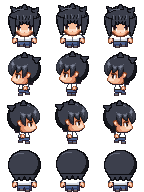
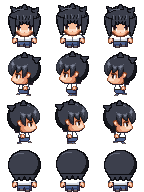
ちびキャラ：横向きの足元を手本に合わせる（脚と靴で2段、つま先の1ドットの出っ張り、裾を45行まで、歩幅）
Claude-Session: https://claude.ai/code/session_017gxvkc2TW4xYgG5MuSL3N1

diff --git a/files.js b/files.js
@@ -2,7 +2,7 @@
 // マップなどを足したら scripts に1行足す（順番どおりに読み込む。main.js は最後）。
 // 版の番号 v は tools/stamp.py が書き換える。
 window.FILES = {
-  v: '20261127051514',
+  v: '20261127051956',
   scripts: [
     'engine/core.js',
     'engine/world.js',

diff --git a/tools/sprites/make_chibi.py b/tools/sprites/make_chibi.py
@@ -122,8 +122,8 @@ def body(a, c, side, step, back):
         sw = {0: -1, 1: 0, 2: 1}[step]
         if girl:
             span_part(a, SKIRT_SIDE_GIRL, c['low1'], c['low2'], c['line'], bottom_line=True)
-            for x, y0 in ((-5, 41), (-2, 41), (1, 42)):  # 折り目
-                a.dots(x, y0, ['p'] * (44 - y0), {'p': c['low2']})
+            for x, y0 in ((-5, 42), (-2, 42), (1, 43)):  # 折り目
+                a.dots(x, y0, ['p'] * (45 - y0), {'p': c['low2']})
             span_part(a, TORSO_SIDE_GIRL, c['top1'], c['top2'], c['topLine'])
         else:
             span_part(a, PANTS_SIDE_BOY, c['low1'], c['low2'], c['line'], bottom_line=True)
@@ -185,12 +185,17 @@ def feet(a, c, side, step):
         for x0, l in ((-5, lift[0]), (1, lift[1])):
             a.dots(x0, 45 - l, foot, pal)
     else:
-        if step == 1:  # 前後の足が並んで見える（奥の足を先に描く）
-            a.dots(-1, 45, ['olllo', 'odddo', 'odddo'], pal)
-            a.dots(-5, 45, foot, pal)
-        else:
-            a.dots(1, 44, ['olllo', 'odddo', 'odddo'], pal)  # 奥の足（上がっている）
-            a.dots(-6, 45, foot, pal)
+        # 横向き：脚1段＋靴1段の2段だけ（46・47行）。靴は脚より1ドット前に出たつま先で表す。輪郭は黒ではなく靴の暗い色
+        girl = c['girl']
+        pal = {'o': c['shoe2'], 'L': c['skin2'] if girl else c['low1'], 'l': c['skinS'] if girl else c['low2'],
+               'S': c['shoe1'], 's': c['shoe2']}
+        front = ('oLLo', 'oSSo')    # 前の足：脚 x0..x0+3、靴は1ドット前（x0−1..x0+2）
+        back = ('llls', 'SSSso')    # 後ろの足：奥なので脚は暗め、靴は x0−1..x0+3
+        # (前の足の x, 上げ, 後ろの足の x, 上げ)。上げた足は1ドット上がる
+        fx, fu, bx, bu = {0: (-7, 1, 3, 0), 1: (-3, 0, 1, 0), 2: (-5, 0, 3, 1)}[step]
+        for rows, x0, up in ((back, bx, bu), (front, fx, fu)):
+            a.dots(x0, 46 - up, [rows[0]], pal)
+            a.dots(x0 - 1, 47 - up, [rows[1]], pal)
 
 
 # ---------------- 頭（大きく、前髪は目のすぐ上まで、目は大きく下寄り） ----------------
@@ -304,9 +309,9 @@ FACE_SIDE_LINE = [(-12, 32), (-11, 33), (-10, 34), (-9, 34)] + [(x, 35) for x in
 # 横向きの胴：上は細く、前の縁を斜めに下へ広げて、下半身の広さとの落差を出す
 TORSO_SIDE_BOY = {36: (-4, 4), 37: (-5, 4), 38: (-5, 4), 39: (-6, 5), 40: (-6, 5)}
 BELT_SIDE_BOY = {41: (-6, 5)}
-PANTS_SIDE_BOY = {42: (-6, 4), 43: (-6, 4), 44: (-5, 4)}
+PANTS_SIDE_BOY = {42: (-6, 4), 43: (-6, 4), 44: (-5, 4), 45: (-4, 4)}  # 45行が裾の輪郭
 TORSO_SIDE_GIRL = {36: (-5, 4), 37: (-6, 4), 38: (-6, 4), 39: (-7, 4)}
-SKIRT_SIDE_GIRL = {40: (-7, 4), 41: (-7, 4), 42: (-8, 5), 43: (-8, 5), 44: (-8, 5)}
+SKIRT_SIDE_GIRL = {40: (-7, 4), 41: (-7, 4), 42: (-8, 5), 43: (-8, 5), 44: (-8, 5), 45: (-8, 5)}  # 45行が裾の輪郭
 
 
 def span_mask(spans):

diff --git a/CLAUDE.md b/CLAUDE.md
@@ -10,7 +10,7 @@
 - 校舎（廊下8枚と部屋の型）は `tools/gen_school.py` で生成する。生成した `data/maps/school_*.js` は直接直さず、スクリプトを直して作り直す。お話のイベントは `data/story.js` に `G.addEvents` で足す（`at: '扉の名前'` で位置を決められる）。見取り図の施設名のうち学校が特定されそうな名前は一般的な名前に変える
 - 参考にした市販ゲームのファイル（データ・画像・音・シナリオ）はこのリポジトリに入れない
 - タイル素材（ドット絵世界）は二次配布禁止。元のPNGは入れず、`tools/encode_tileset.py` で変換した `data/tilesets/*.js` だけを入れる。タイトル画面の著作権表示（system.js の credits）は消さない
-- キャラの歩行グラフィックは、いまはちびキャラ（手本：RPGツクールMVの標準キャラの比率、約1.5頭身、1コマ48×48px）。`tools/sprites/make_chibi.py` で描き、`img/chars/haru_chibi.png`・`img/chars/yui_chibi.png` に書き出す。塗りは手本と同じくっきりしたドット絵（48×48pxに直接描く。ベタ塗り、段をつけた影と光、部品ごとに1ドットの濃い輪郭、目は1ドットずつ形を決め、白い光はほぼ使わず外側の白目と上が濃い瞳で表す。髪のかたまりは小さめで額は高め、前髪には毛束の明るい筋を1本おきに入れて凹凸を出す。女子の髪は5段（光・明・中・暗・影）で束ごとに塗り分ける（make_chibi.py の hair_shade。頭頂はつむじから放射状の束で境目に暗い線、頭の丸みに沿って束ごとに上下へずれたギザギザの天使の輪（束の真ん中だけ光の色）、前髪は束ごとに上が明るく下ほど暗く真ん中に光の筋、横・後ろの髪は縦の束で左が明るく右と下が暗い。髪型が手本と違うので、ここは手本を写さず工夫したもの）。胴は肩が細く裾へ広がる八の字で、腕も外へ開く。前髪の毛先は目の上端に接するまで下ろし、真ん中の毛束だけ短くしてそのすき間から額をのぞかせる。前髪のすぐ下の肌には影（1段目は影色、2段目は中間色）。顔の横の髪で、目の外側の端からあごの近くまで顔を縁取る（男子は細く短め）。肌は桃色がかった色（白っぽくしない）。顔は上下と左右に4段（明・中間・影・濃い影）の明暗をドット単位でつけて立体感を出す（前髪の下は中間色→目の下から頬の段がいちばん明るい→その下は中間色→あごの段は影色。左右の端は内側へ濃い影→影→中間色、頬の段は影を1段多く）。目はまるごと見せる。やや上から見下ろしつつ足先まで全身を見せる（胴→スカート／ズボン→脚1ドット（女子は肌色）→靴2ドット（上が明るく下が暗い）。左右の足は幅5ドット（輪郭＋中身3）で間に1ドットのすき間。歩くと上げた足が1ドット上がる）。目は顔の大きさを変えずに大きく、5×5ドット（上まつげは3ドット幅で2段目が内側へ1ドットずれる斜め、黒目3ドット幅で上が濃く一番下が明るい、真ん中に縦2ドットの瞳孔、白目は外側3段・内側2段の両側）。目の間は7ドットで、目の外側は顔の縁（横の髪）に接する。見下ろす角度なので、肩はあごのすぐ下の行から始まり（上の面が明るく見える）、なで肩で下へ広がる。手は丸ではなくミトン形（幅4×高さ5、外側の輪郭は茶色・内側と下は濃い線で腕と胴の境目にもなる、明るい肌は真ん中上寄りに2×2、下の段の内側が欠けてその上に親指の付け根の点）。服の輪郭も濃い色。男子はシャツ6段・ベルト1段・ズボン3段（明るめの色、股の線）。女子のスカートは下半分に、地より濃い色の縦の折り目の線（中心をはさんで4ドット間隔の2本と、裾の両端寄り）。口は省いて鼻を1ドットの点で表す（頬のいちばん明るい段の最後の行、31行目）。幅の割合は、手を含めた体が頭の約8割。その中で胴は細く、肩と手を大きめにする）。横向き（左向き、前がマイナス）は、顔と胴の形を make_chibi.py の「行ごとの前端・後端の表」（FACE_SIDE・TORSO_SIDE_* など）で決める。手本を拡大して各行の端の位置を測り、その数字をそのまま表に書く（楕円や多角形で近似しない）。横顔は鼻筋がまっすぐ縦に続いたあと鼻で1ドット前に出て（鼻筋から下は顔より前に髪の輪郭を残さない）、その下で輪郭1ドット分の落差をつけてあごへ。あごは34行で終わり（下に出っ張らせない）、前の縁は輪郭線なしで濃い肌色、あごの下だけ濃い輪郭。目は make_chibi.py の EYE_SIDE の表で描く（手本を1ドットずつ測った作り：x −9〜−4、24〜29行。茶色の上まぶたの線が目尻まで続き、黒いまつげ、前の縁は黒、黒目は2ドット幅で上の段に瞳孔、白目は白と灰色の2列、目尻は濃い影の肌、いちばん下の段は明るい黒目。女子は目尻の列が髪にかかる）。目の前端は鼻筋から肌4ドット後ろ。耳のまわりは make_chibi.py の EAR_SIDE_BOY／EAR_SIDE_GIRL の表で描く（手本を1ドットずつ測った作り：縦長のアーモンド形の耳で、上の縁は茶色、前の縁は黒、真ん中がいちばん明るい。耳の前はもみあげの髪で、顔側の縁は暗い髪色。もみあげの下の縁は耳の前から左下へ下りる黒い斜めの線（女子はあごの近くまで垂れる）。耳の下はあご・首の肌が後ろへ続き、その後ろの髪は影の色）。前髪は make_chibi.py の BANGS_SIDE の表で描く（手本を1ドットずつ測った作り：x −16〜+3、10〜26行。前の縁は黒ではなく暗い髪色で、上から前へふくらみ、いちばん前の束は26行まで垂れて顔の前を覆う。前・真ん中・耳の前の3本の束に分かれ、束の間から21〜24行で肌がのぞく。18行から下は束の境目に暗い線、光は前上と後ろ寄りの2か所。色は5段に置き換える）。明暗は前の縁が濃い影、前寄りの頬が最も明るく、耳に近い後ろほど暗い。女子の後ろ髪はあごの高さまで。胴は上が細く（36行で9〜10ドット）前の縁を斜めに下へ広げ、スカート・ズボンの広さとの落差を出す。手は胴の中ほどより後ろに4×5ドット、立ち姿は前後の足が並んで見える。手本を使うときは、拡大して絵そのものを見比べるのに加えて、行ごとの端の位置（前端・後端・上下の終わり）を手本とうちで並べて書き出し、1行ずつずれを確かめてから直す（ざっくりした観察で済ませない）。端は肌の色だけでなく、髪や輪郭も含めた「透明でない最も外側の点」で測る（肌だけ測ると、顔の前にはみ出した髪の輪郭で鼻が平らになっているのを見落とす）。「イラストを縮めた柔らかい塗り」は4頭身のための試しで、ちびキャラには使わない。3頭身・4頭身は見送り。約4頭身の版（`make_trial.py`→`trial.png`、`make_haru.py`→`haru.png`）も残してある。手本の絵は写さない（比率と描き方だけ合わせる）。直したらスクリプトを動かして画像を作り直す
+- キャラの歩行グラフィックは、いまはちびキャラ（手本：RPGツクールMVの標準キャラの比率、約1.5頭身、1コマ48×48px）。`tools/sprites/make_chibi.py` で描き、`img/chars/haru_chibi.png`・`img/chars/yui_chibi.png` に書き出す。塗りは手本と同じくっきりしたドット絵（48×48pxに直接描く。ベタ塗り、段をつけた影と光、部品ごとに1ドットの濃い輪郭、目は1ドットずつ形を決め、白い光はほぼ使わず外側の白目と上が濃い瞳で表す。髪のかたまりは小さめで額は高め、前髪には毛束の明るい筋を1本おきに入れて凹凸を出す。女子の髪は5段（光・明・中・暗・影）で束ごとに塗り分ける（make_chibi.py の hair_shade。頭頂はつむじから放射状の束で境目に暗い線、頭の丸みに沿って束ごとに上下へずれたギザギザの天使の輪（束の真ん中だけ光の色）、前髪は束ごとに上が明るく下ほど暗く真ん中に光の筋、横・後ろの髪は縦の束で左が明るく右と下が暗い。髪型が手本と違うので、ここは手本を写さず工夫したもの）。胴は肩が細く裾へ広がる八の字で、腕も外へ開く。前髪の毛先は目の上端に接するまで下ろし、真ん中の毛束だけ短くしてそのすき間から額をのぞかせる。前髪のすぐ下の肌には影（1段目は影色、2段目は中間色）。顔の横の髪で、目の外側の端からあごの近くまで顔を縁取る（男子は細く短め）。肌は桃色がかった色（白っぽくしない）。顔は上下と左右に4段（明・中間・影・濃い影）の明暗をドット単位でつけて立体感を出す（前髪の下は中間色→目の下から頬の段がいちばん明るい→その下は中間色→あごの段は影色。左右の端は内側へ濃い影→影→中間色、頬の段は影を1段多く）。目はまるごと見せる。やや上から見下ろしつつ足先まで全身を見せる（胴→スカート／ズボン→脚1ドット（女子は肌色）→靴2ドット（上が明るく下が暗い）。左右の足は幅5ドット（輪郭＋中身3）で間に1ドットのすき間。歩くと上げた足が1ドット上がる）。目は顔の大きさを変えずに大きく、5×5ドット（上まつげは3ドット幅で2段目が内側へ1ドットずれる斜め、黒目3ドット幅で上が濃く一番下が明るい、真ん中に縦2ドットの瞳孔、白目は外側3段・内側2段の両側）。目の間は7ドットで、目の外側は顔の縁（横の髪）に接する。見下ろす角度なので、肩はあごのすぐ下の行から始まり（上の面が明るく見える）、なで肩で下へ広がる。手は丸ではなくミトン形（幅4×高さ5、外側の輪郭は茶色・内側と下は濃い線で腕と胴の境目にもなる、明るい肌は真ん中上寄りに2×2、下の段の内側が欠けてその上に親指の付け根の点）。服の輪郭も濃い色。男子はシャツ6段・ベルト1段・ズボン3段（明るめの色、股の線）。女子のスカートは下半分に、地より濃い色の縦の折り目の線（中心をはさんで4ドット間隔の2本と、裾の両端寄り）。口は省いて鼻を1ドットの点で表す（頬のいちばん明るい段の最後の行、31行目）。幅の割合は、手を含めた体が頭の約8割。その中で胴は細く、肩と手を大きめにする）。横向き（左向き、前がマイナス）は、顔と胴の形を make_chibi.py の「行ごとの前端・後端の表」（FACE_SIDE・TORSO_SIDE_* など）で決める。手本を拡大して各行の端の位置を測り、その数字をそのまま表に書く（楕円や多角形で近似しない）。横顔は鼻筋がまっすぐ縦に続いたあと鼻で1ドット前に出て（鼻筋から下は顔より前に髪の輪郭を残さない）、その下で輪郭1ドット分の落差をつけてあごへ。あごは34行で終わり（下に出っ張らせない）、前の縁は輪郭線なしで濃い肌色、あごの下だけ濃い輪郭。目は make_chibi.py の EYE_SIDE の表で描く（手本を1ドットずつ測った作り：x −9〜−4、24〜29行。茶色の上まぶたの線が目尻まで続き、黒いまつげ、前の縁は黒、黒目は2ドット幅で上の段に瞳孔、白目は白と灰色の2列、目尻は濃い影の肌、いちばん下の段は明るい黒目。女子は目尻の列が髪にかかる）。目の前端は鼻筋から肌4ドット後ろ。耳のまわりは make_chibi.py の EAR_SIDE_BOY／EAR_SIDE_GIRL の表で描く（手本を1ドットずつ測った作り：縦長のアーモンド形の耳で、上の縁は茶色、前の縁は黒、真ん中がいちばん明るい。耳の前はもみあげの髪で、顔側の縁は暗い髪色。もみあげの下の縁は耳の前から左下へ下りる黒い斜めの線（女子はあごの近くまで垂れる）。耳の下はあご・首の肌が後ろへ続き、その後ろの髪は影の色）。前髪は make_chibi.py の BANGS_SIDE の表で描く（手本を1ドットずつ測った作り：x −16〜+3、10〜26行。前の縁は黒ではなく暗い髪色で、上から前へふくらみ、いちばん前の束は26行まで垂れて顔の前を覆う。前・真ん中・耳の前の3本の束に分かれ、束の間から21〜24行で肌がのぞく。18行から下は束の境目に暗い線、光は前上と後ろ寄りの2か所。色は5段に置き換える）。明暗は前の縁が濃い影、前寄りの頬が最も明るく、耳に近い後ろほど暗い。女子の後ろ髪はあごの高さまで。胴は上が細く（36行で9〜10ドット）前の縁を斜めに下へ広げ、スカート・ズボンの広さとの落差を出す。手は胴の中ほどより後ろに4×5ドット。足元はスカート・ズボンの裾の輪郭が45行、その下は脚1段＋靴1段の2段だけ（46・47行）。靴は脚より1ドット前に出たつま先で表し、輪郭は黒ではなく靴の暗い色。立ち姿は前後の足が並び（46行 −3〜+4、47行 −4〜+4）、歩くと前の足が x −7 あたりまで出て、上げた足は1ドット上がる。手本を使うときは、拡大して絵そのものを見比べるのに加えて、行ごとの端の位置（前端・後端・上下の終わり）を手本とうちで並べて書き出し、1行ずつずれを確かめてから直す（ざっくりした観察で済ませない）。端は肌の色だけでなく、髪や輪郭も含めた「透明でない最も外側の点」で測る（肌だけ測ると、顔の前にはみ出した髪の輪郭で鼻が平らになっているのを見落とす）。「イラストを縮めた柔らかい塗り」は4頭身のための試しで、ちびキャラには使わない。3頭身・4頭身は見送り。約4頭身の版（`make_trial.py`→`trial.png`、`make_haru.py`→`haru.png`）も残してある。手本の絵は写さない（比率と描き方だけ合わせる）。直したらスクリプトを動かして画像を作り直す
 - 字体：ゲームの文字は M+ 1m（`fonts/mplus-1m-regular.ttf`、M+ FONTS は自由に使用・配布できる）。`G.font()` と css/style.css で指定している。収録外の文字（♪など）は端末のフォントになる
 - 公開は gh-pages ブランチから。更新したら、まず `python3 tools/stamp.py`（files.js の版の番号を新しくする。ブラウザが古いファイルを使い回して新旧が混ざるのを防ぐ）、コミットして `git push origin main main:gh-pages` で両方に送る。そのあと `gh api repos/nzanke/game-test/actions/runs` で「pages build and deployment」が新しいコミットで completed success になったのを確かめてから報告する。ビルドが走らないときは空のコミットを送り直す（Pages 設定のAPIは作業環境から使えない）
 - やりとりと説明は日本語で
